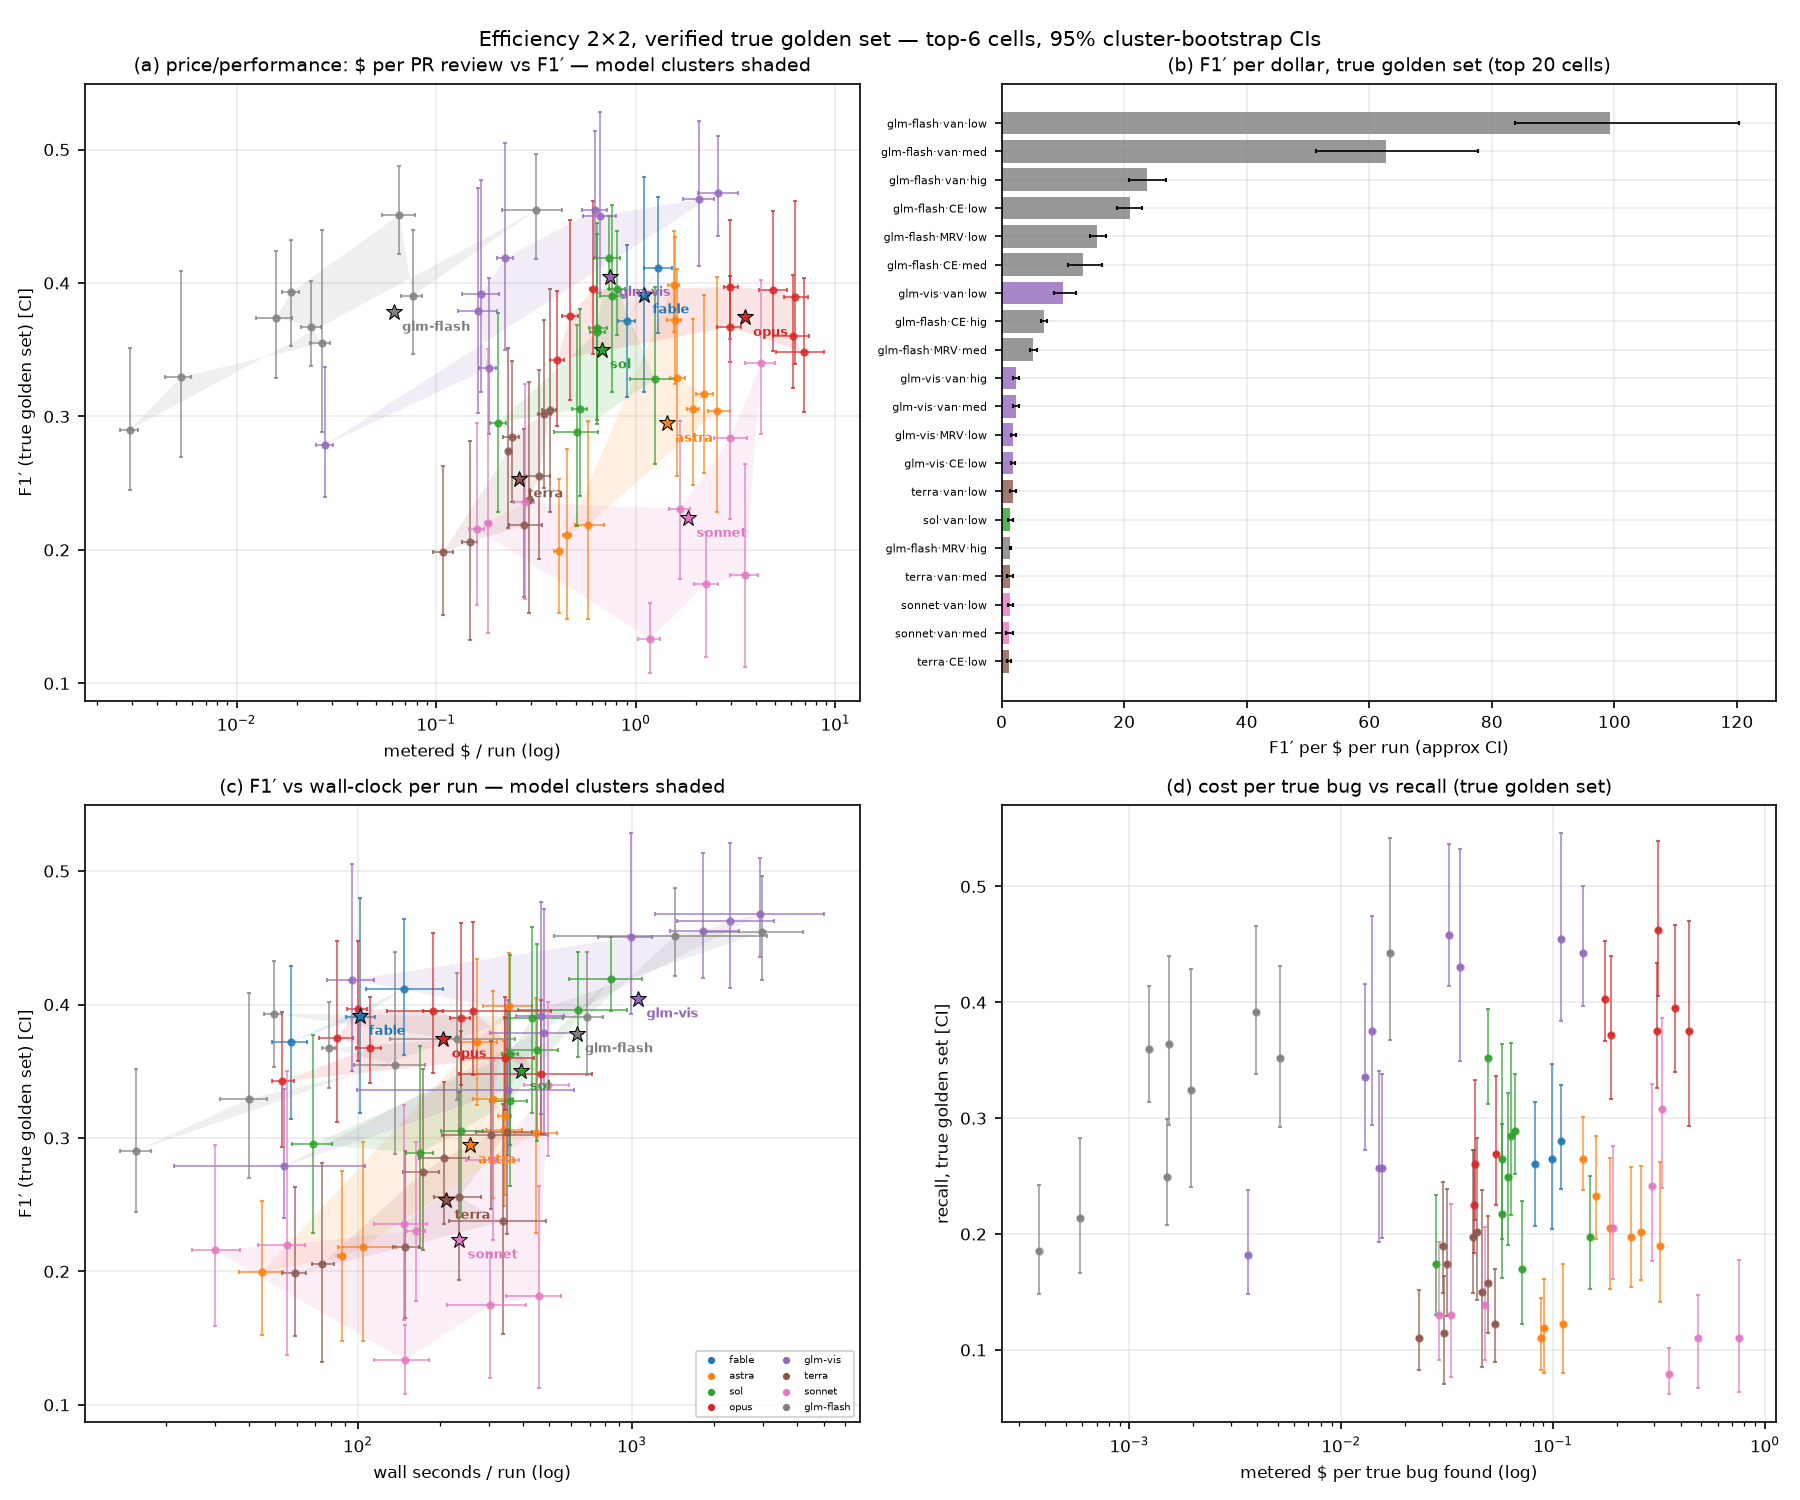
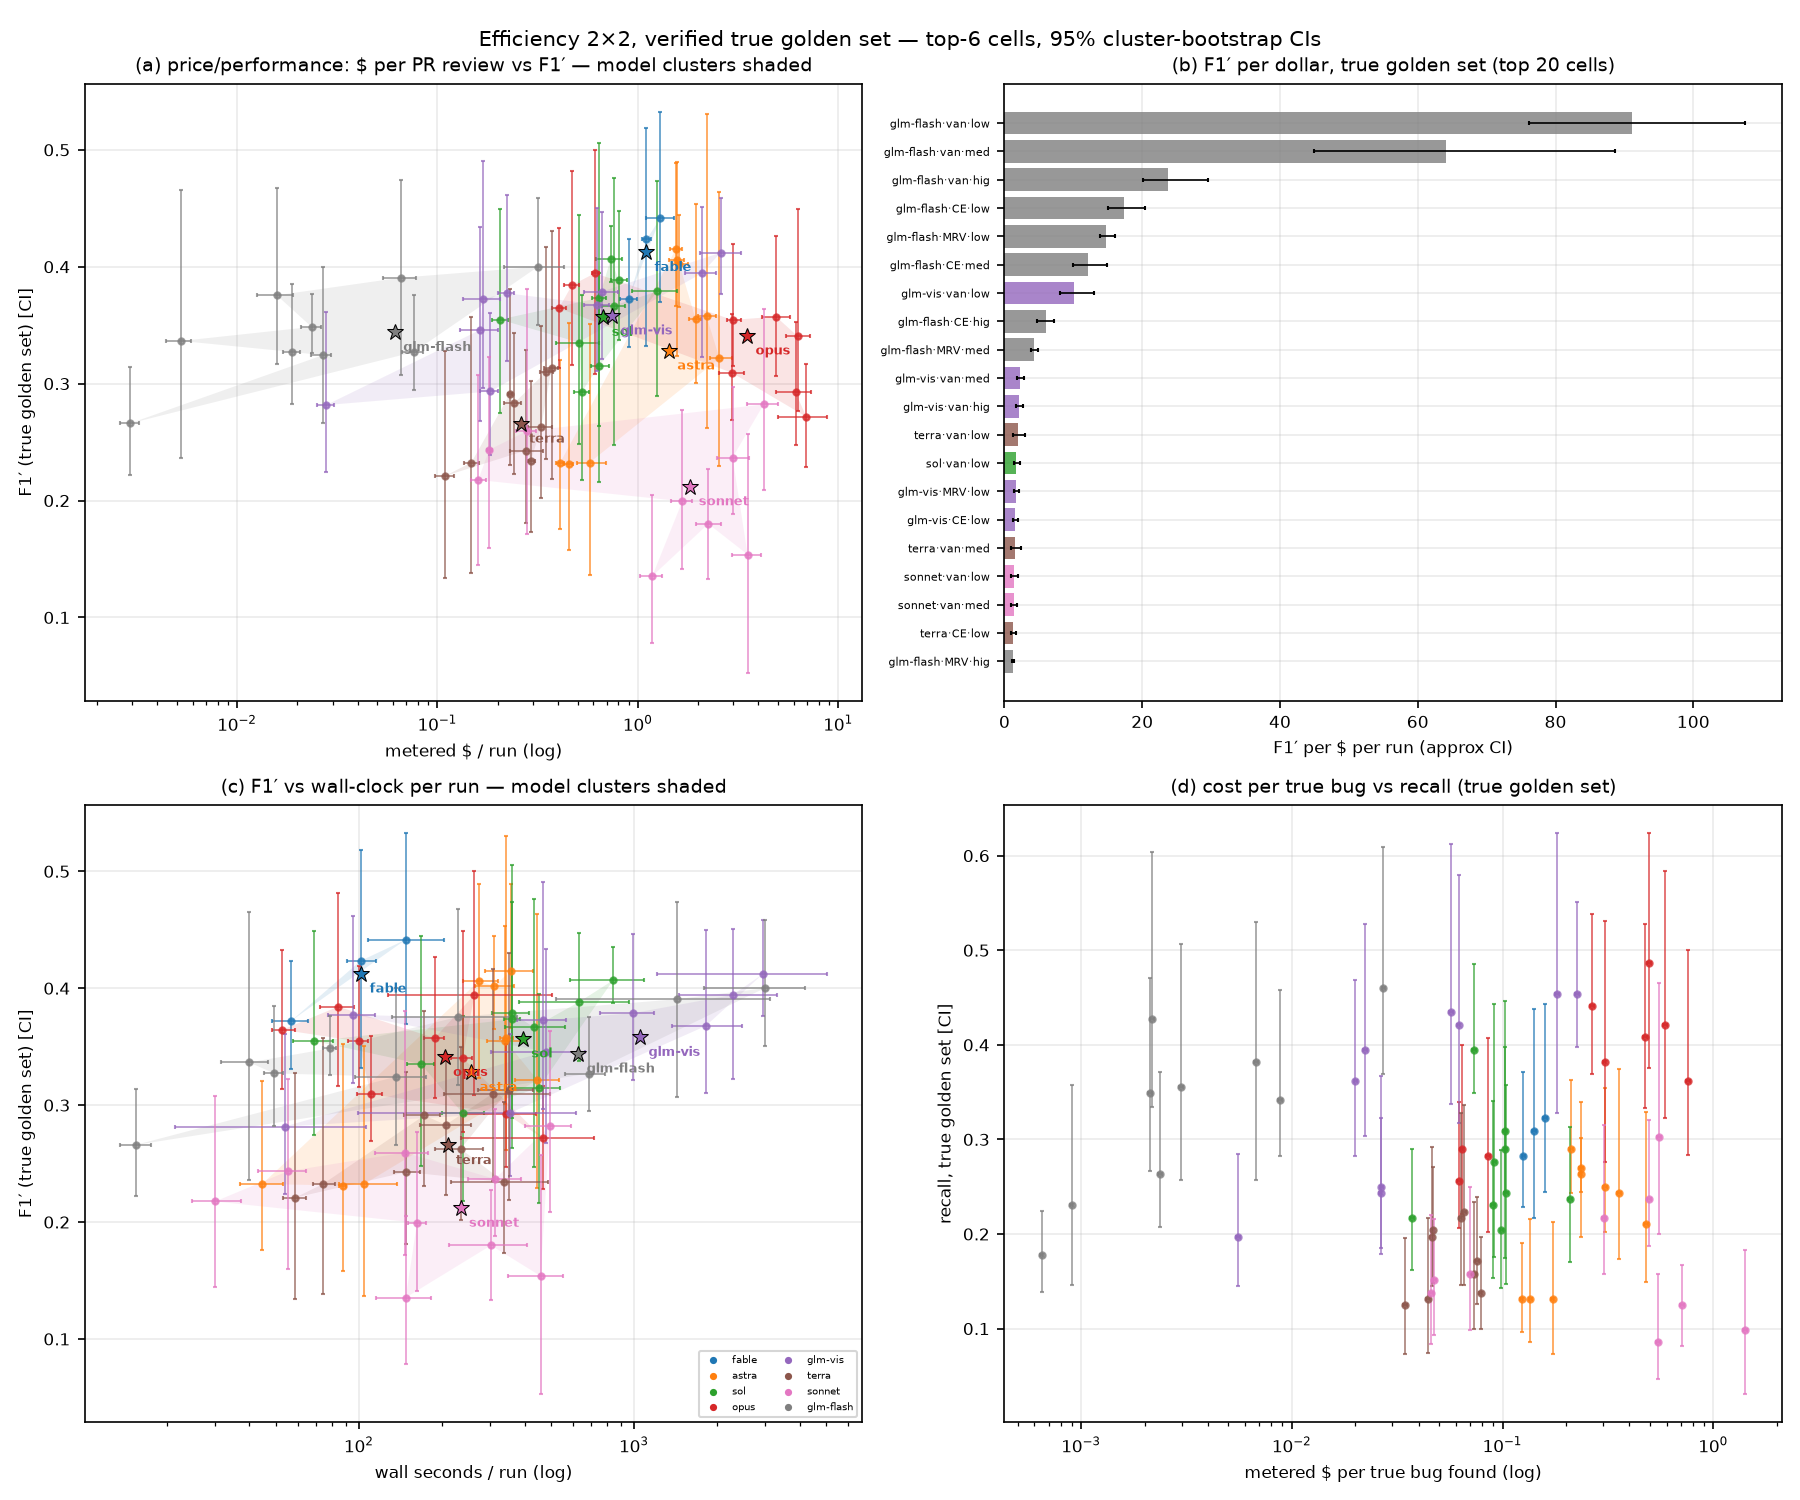
charts: repoint every figure that claims the true set, and fix the report captions
The pre-existing figures still read expanded_gold_verified.matrix_sem (the superseded LLM-merged §10c
keyset) - only the two new true-set charts were on the true set. final_report_figures.py now builds the
compatibility view from true_gold_defects.verified.cells, so every chart that plots the true golden set
uses the deduplicated, individually test-validated defect set (fig_efficiency_2x2 panel (a)/(b)/(d),
fig_effort_ladder, fig_recall_grid, the F1' axis of fig_pareto_frontier). All 11 figures + the dashboard
regenerated.

Verified the change is real, not cosmetic: claude-fable-5-1|vanilla-engineered|high now reads TP 49 /
recall 0.322 / F1' 0.441 (was TP 71 / 0.281 under §10c).

Report captions corrected: §10c heading and T12/T15 are marked superseded by §10d/T16/T17, the §6.5
figure caption says which axis is the true set vs the strict benchmark, and the §10b supersede notices
now point at §10d.

diff --git a/tools/final_report_figures.py b/tools/final_report_figures.py
@@ -14,7 +14,14 @@ import matplotlib.pyplot as plt
 ROOT = os.path.dirname(os.path.dirname(os.path.abspath(__file__)))
 D = json.load(open(f"{ROOT}/analysis/final_report_dataset.json"))
 M = json.load(open(f"{ROOT}/analysis/final_report_metrics.json"))
-SEM = M["expanded_gold_verified"]["matrix_sem"]
+# TRUE golden set (§10d, PRIMARY): 42 goldens + the deduplicated, individually test-validated defects.
+# Compatibility view: the figure code reads TP_sem / recall_sem / F1 / F1p + CIs, so map the defect-level
+# cells onto those names. (Previously this pointed at expanded_gold_verified.matrix_sem, the superseded
+# LLM-merged §10c keyset.)
+SEM = {k: {"TP_sem": c["TP"], "recall_sem": c["recall"], "F1": c["F1"], "F1p": c["F1p"],
+           "adjP": c["adjP"], "adjPp": c["adjPp"],
+           "ci": {"recall_sem": c["ci"]["recall"], "F1": c["ci"]["F1"], "F1p": c["ci"]["F1p"]}}
+       for k, c in M["true_gold_defects"]["verified"]["cells"].items()}
 
 def sem_cell(m, fw, e):
     return SEM.get(f"{m}|{fw}|{e}")

diff --git a/REPORT_FINAL.md b/REPORT_FINAL.md
@@ -287,10 +287,10 @@ Figures: `analysis/figures/fig_recall_grid.png` (recall with CIs per cell),
 
 ## 5b. Two analyses: strict benchmark vs expanded gold (the hidden-gold union)
 
-> **SUPERSEDED by §10c (levels only; §10b was itself an intermediate step).** The T9/T10/T11 unions below overcount distinct
+> **SUPERSEDED by §10d (levels only; §10b/§10c were intermediate steps).** The T9/T10/T11 unions below overcount distinct
 > bugs ~17× (paraphrase splits) and, due to a since-fixed extract bug, omit all
 > rj3-adjudicated runs' confirmed bugs (706 findings, mostly vanilla cells). The paired
-> Δ *directions* survive; all levels should be read from §10b. Retained for provenance.
+> Δ *directions* survive; all levels should be read from §10d. Retained for provenance.
 
 The strict-benchmark numbers above answer the question Martian defines: *does the tool
 find the human-verified golden comments, without hallucinating?* They deliberately do
@@ -477,7 +477,7 @@ strengthens: recall_exp 0.054 [0.045, 0.064] — **9× fable-5.1 vanilla low (0.
 comparable to opus-5 harness cells, at the same fraction of the cost. Levels are
 conservative; the *ranking* and the *ratios* are the reportable quantities.
 
-## 10c. The VERIFIED true golden set (PRIMARY; supersedes §10b/§10b')
+## 10c. The verified key-union set (SUPERSEDED by §10d; retained for provenance)
 
 §10b introduced the semantic union and was then audited twice more. Both audits found real defects,
 and both are corrected here:
@@ -542,7 +542,7 @@ with adjP/adjP′. CIs: cluster bootstrap, B=10,000, seed 20260916, rng5=SEED+4;
    these are outside their brief. A scope explanation was tested and rejected: among anchored findings,
    227 are in the PR's changed files vs **1** out-of-diff.
 
-### T12 — VERIFIED-union matrix (§10c PRIMARY): per-cell real-world metrics with 95% cluster-bootstrap CIs
+### T12 — verified-union matrix (§10c; superseded by T16): per-cell metrics with 95% cluster-bootstrap CIs
 
 Union = distinct real bugs after (a) a stricter whole-PR re-merge and (b) removal of clusters verified
 to duplicate a golden (47 across the six PRs). recall_sem = (goldens found + additional bugs found) /
@@ -702,7 +702,7 @@ Pairs-level aggregate: mean ΔF1 +0.044 [+0.019, +0.073], mean ΔF1' +0.042 [+0.
 
 Resolved positive 39/43 (vs 38/42 under the frozen key-union, 17/42 strict).
 
-### T15 — verified true-golden set per PR (§10c; evidence pack)
+### T15 — verified key-union per PR (§10c; superseded by T17)
 
 | PR | goldens | verified additional | verified universe | merged clusters | golden-duplicates removed |
 |---|---|---|---|---|---|
@@ -912,9 +912,10 @@ throughput-limited by the gateway** (glm-vis MRV medium 2,282 s [1,458, 3,305]; 
 
 ### 6.5 The efficiency frontier (headline figure)
 
-Both figures below are rebuilt on the **verified true golden set** (§10c metrics): F1′ (nitpicks
-charged) as the quality axis; a strict-benchmark version of each remains in git history
-(data freeze 2026-09-16).
+Both figures below are rebuilt on the **true golden set** (§10d: 42 goldens + 110 individually
+test-validated defects): F1′ (nitpicks charged) is the quality axis and comes from the §10d metrics;
+the F1 panel remains the strict-benchmark (goldens-only) axis, and a strict-benchmark version of each
+figure remains in git history (data freeze 2026-09-16).
 
 `analysis/figures/fig_pareto_frontier.png` plots every complete cell as (metered $ per real
 finding = TP + beyond-gold real, log scale) vs F1 (left) and F1′ (right), both with 95% CIs.
